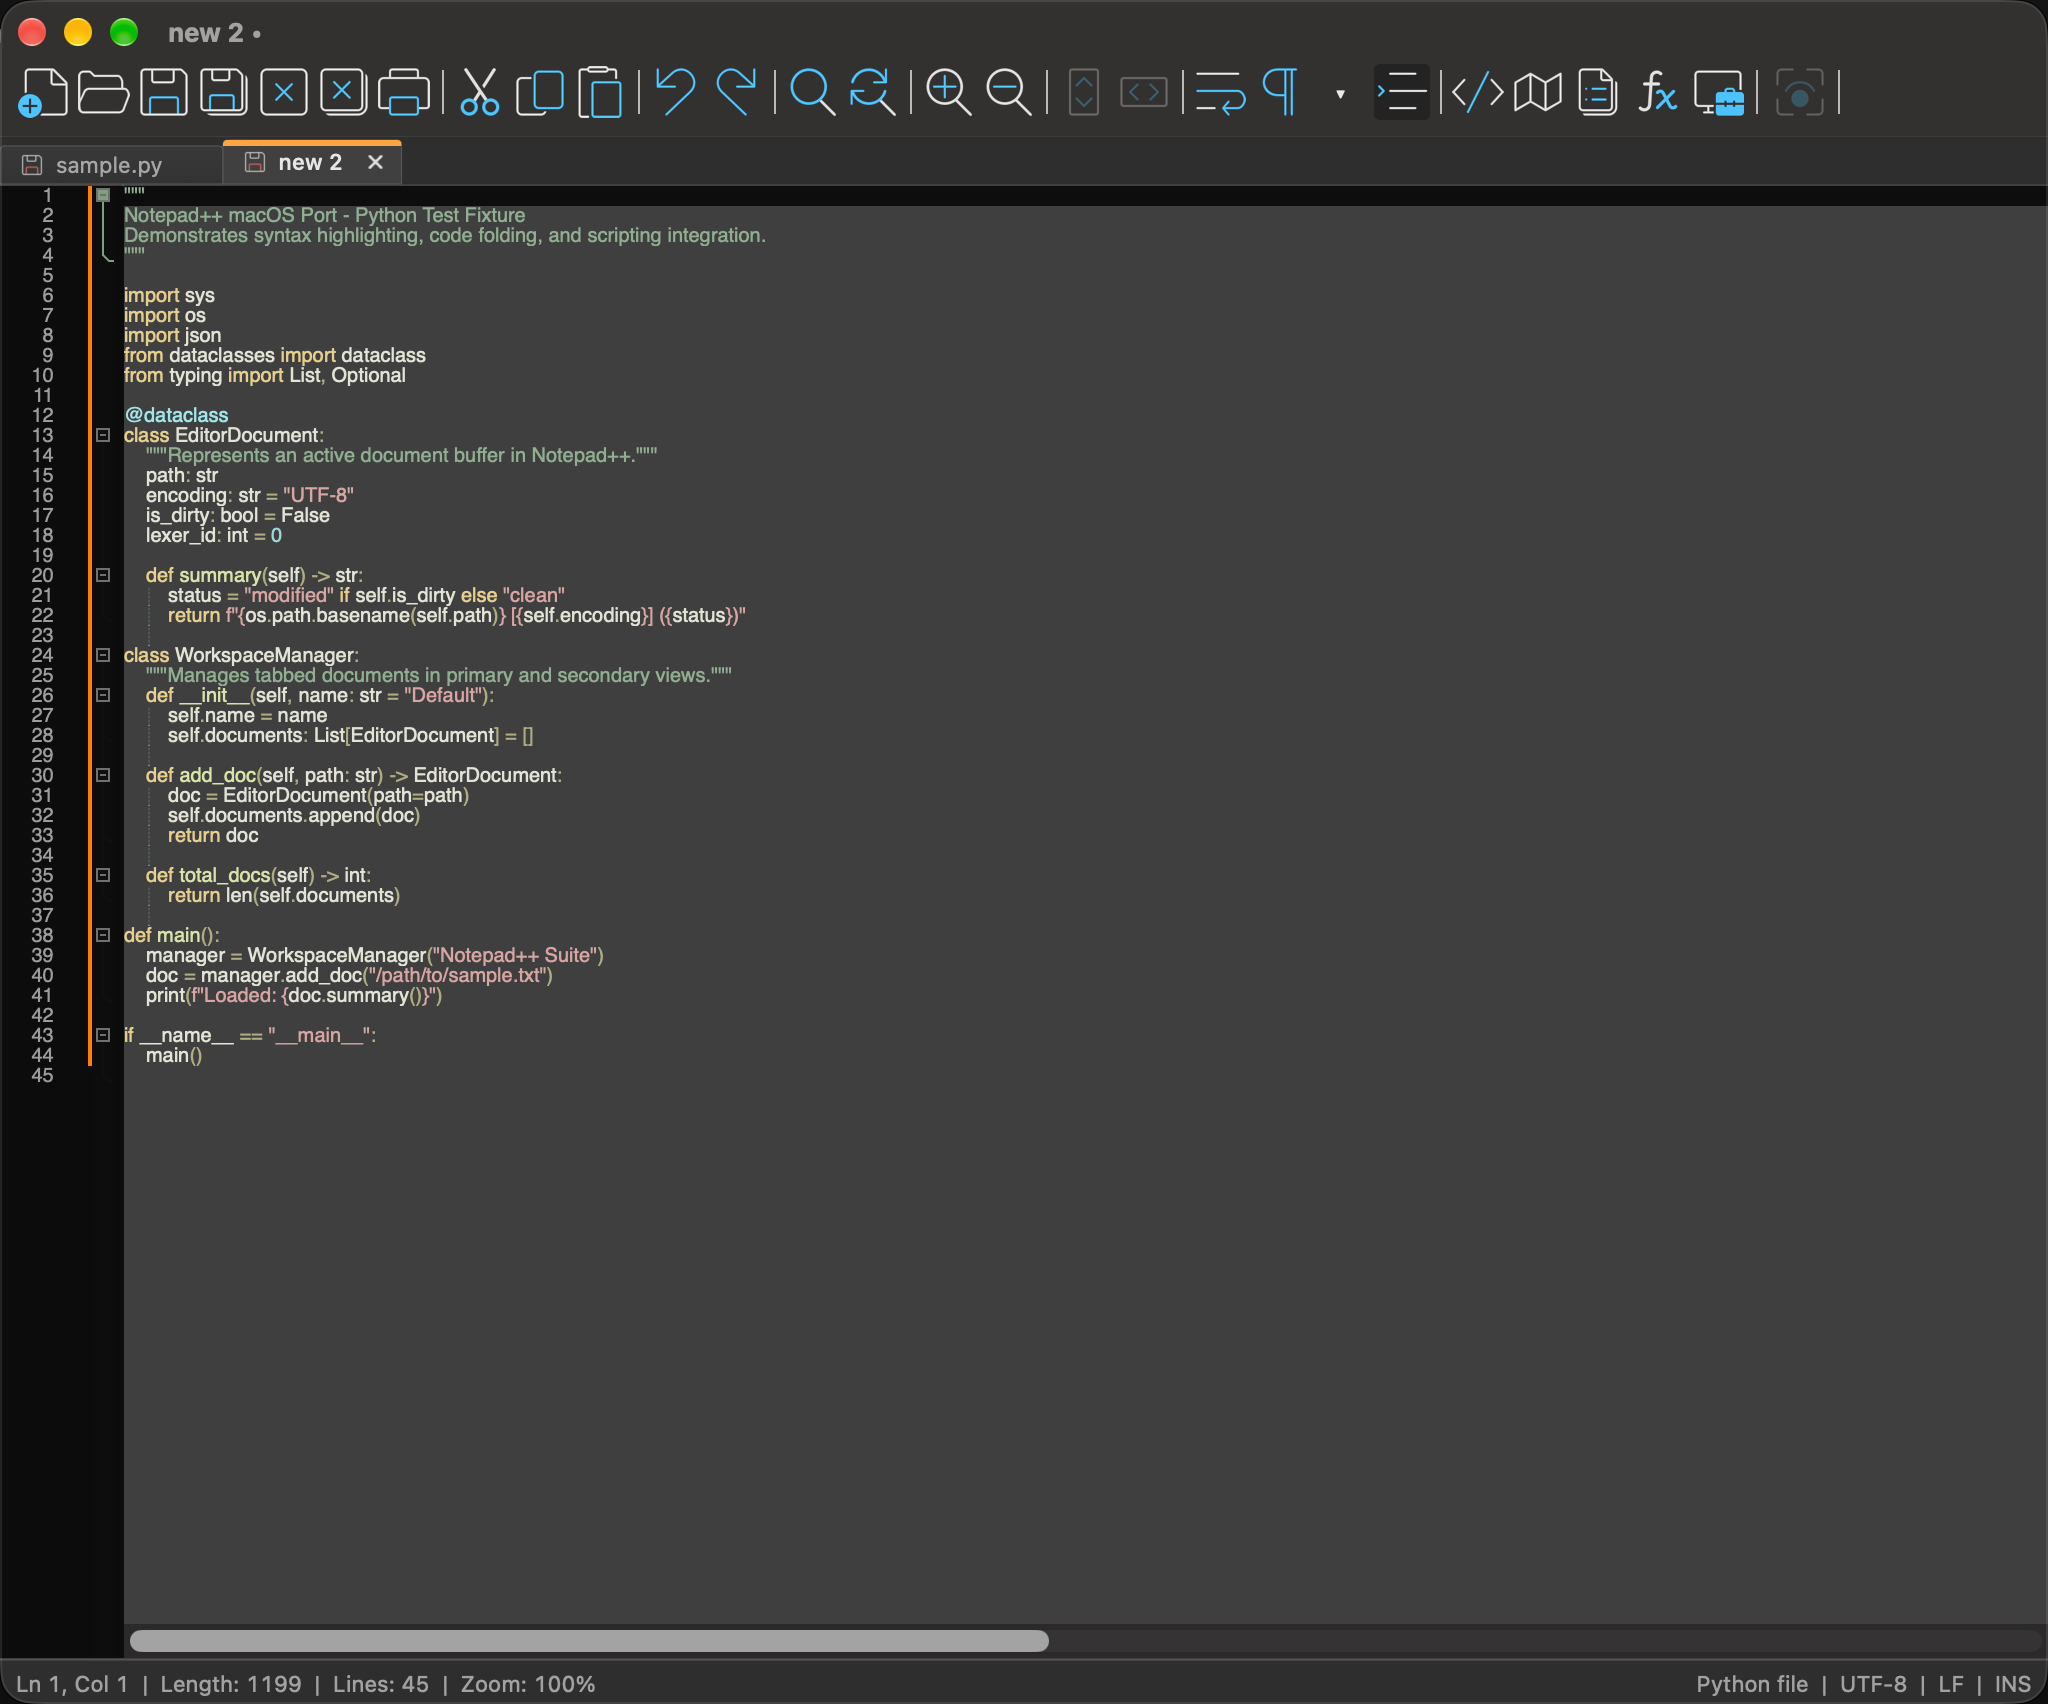
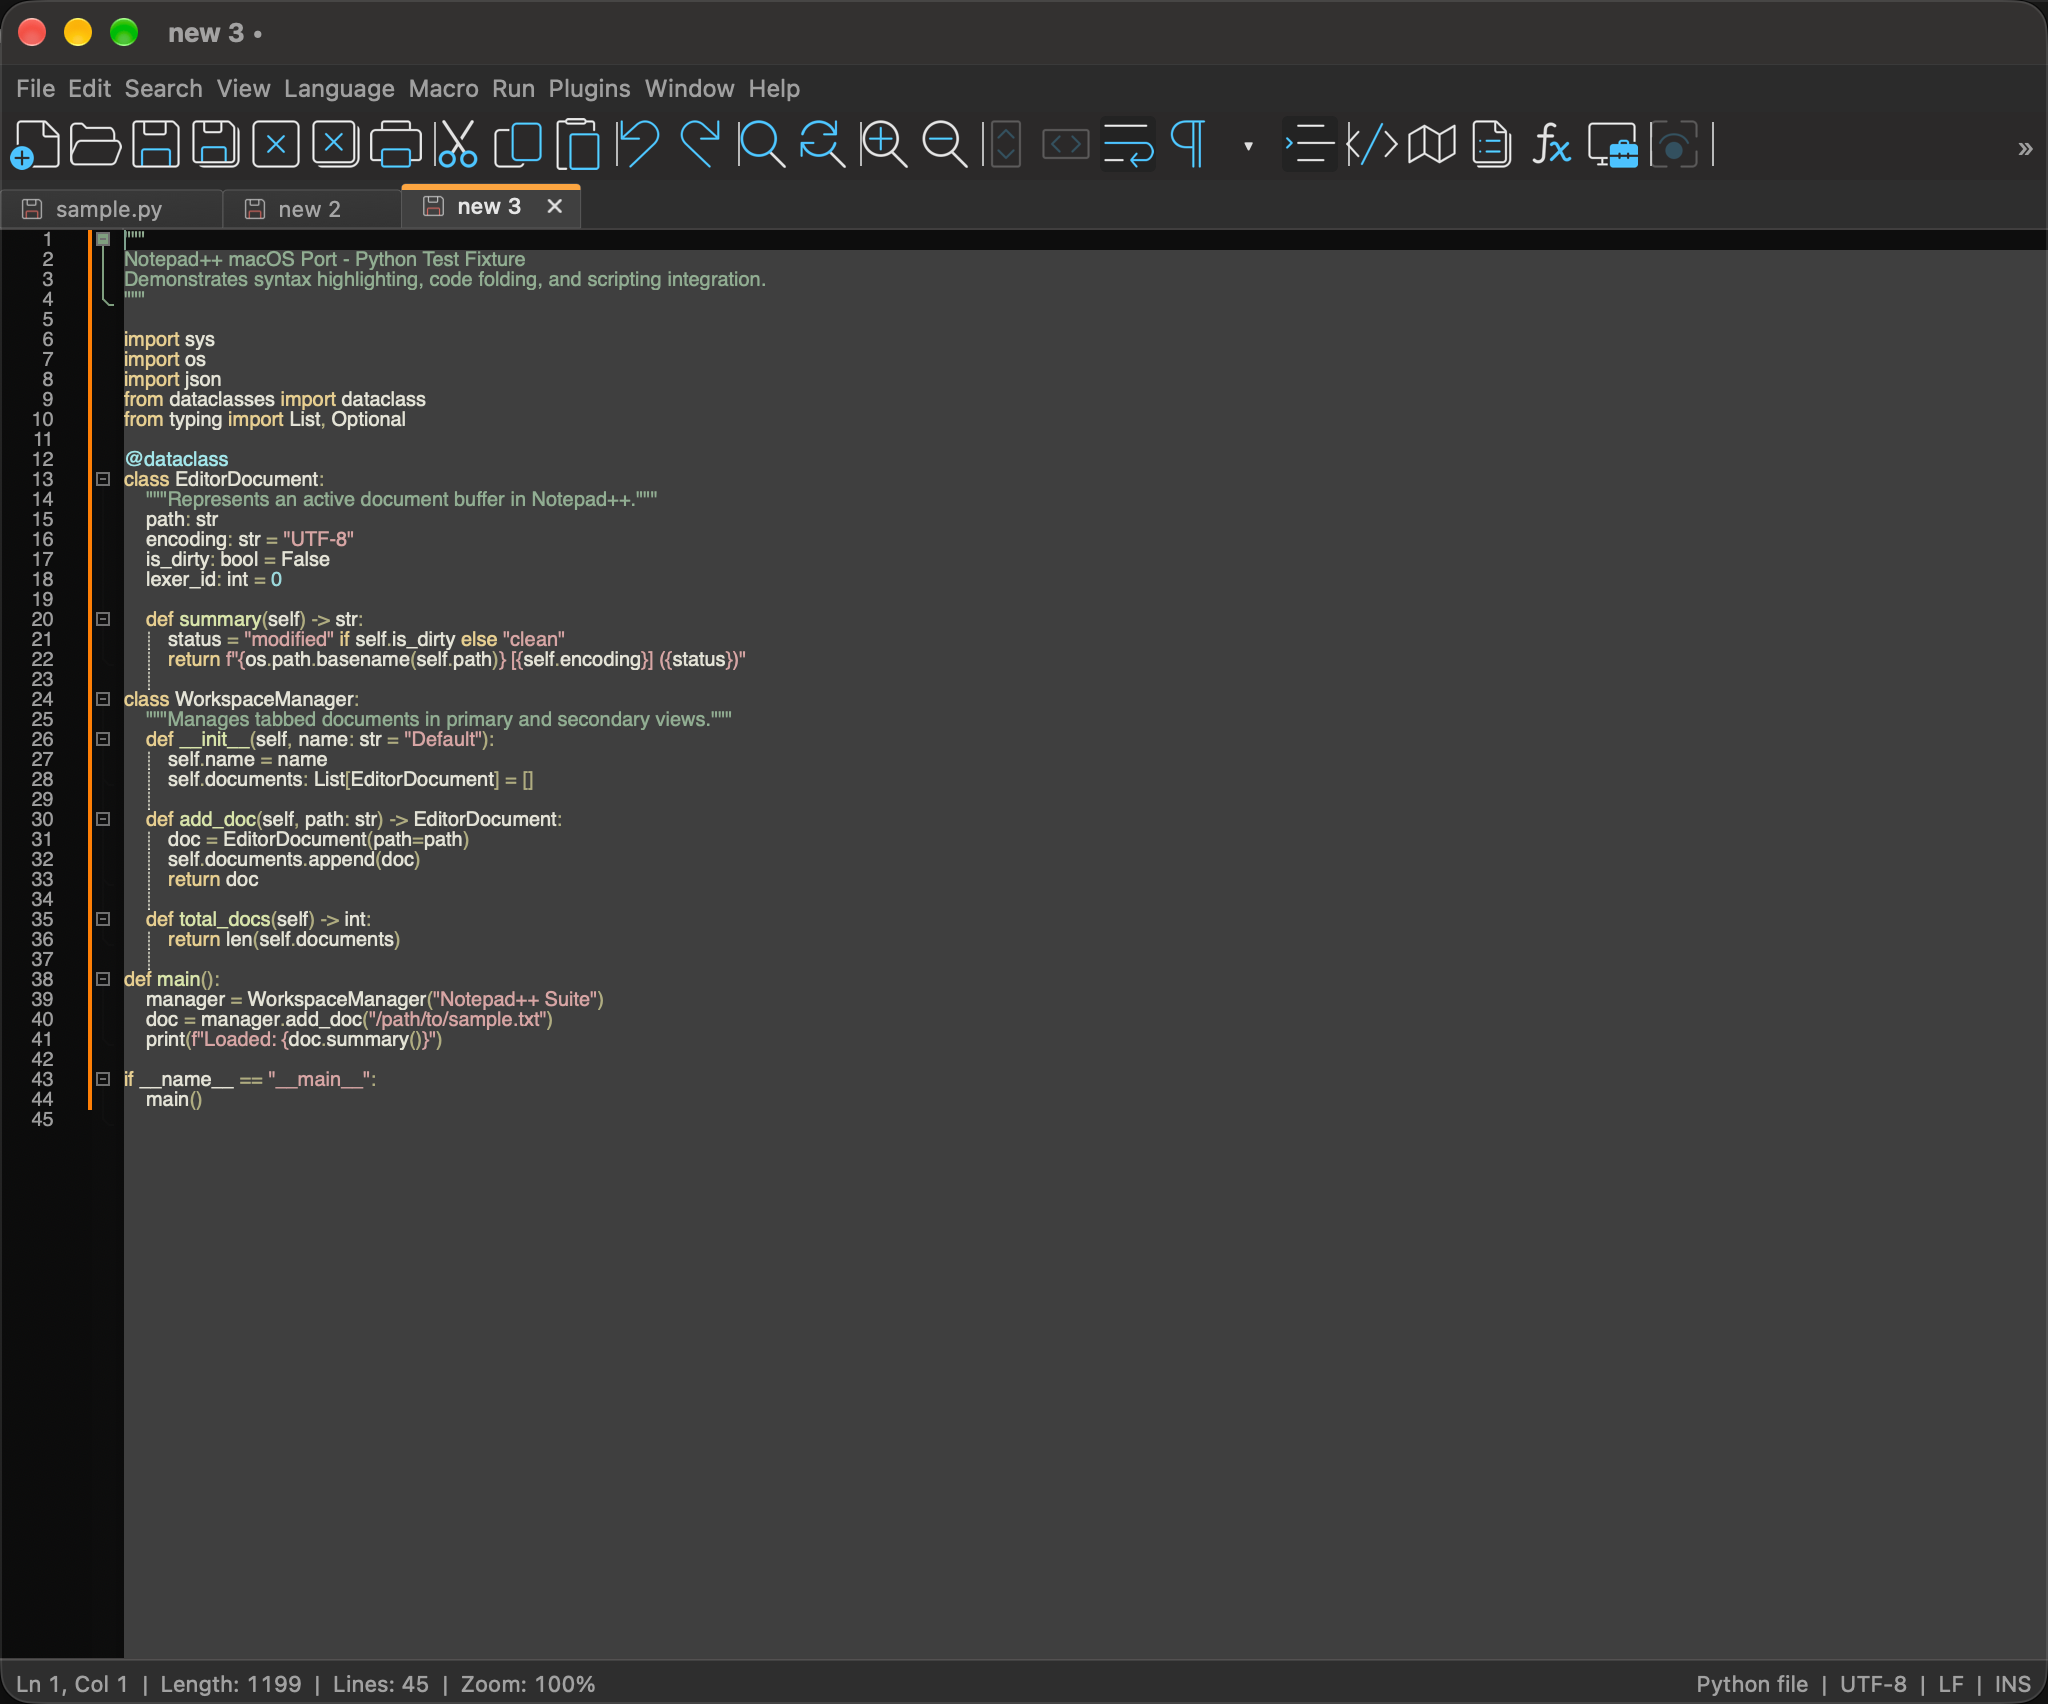
README: screenshots and layout for the new window
Replace the screenshots with the current layout, and describe the menu row,
the toolbar row and the » overflow.

Changed region(s): [[0.0, 0.0311, 1.0, 0.6532], [0.0625, 0.9331, 0.5, 0.9953], [0.0, 0.1866, 0.0312, 0.6532]]

diff --git a/README.md b/README.md
@@ -12,6 +12,16 @@ native menus, toolbars, file dialogs, and light and dark appearance.
   <br><em>Light mode (left) and dark mode (right)</em>
 </p>
 
+## Window layout
+
+From top to bottom, the main window has:
+
+- **Menu row:** File, Edit, Search and the other document menus. The macOS menu bar keeps only the NP++ app menu.
+- **Toolbar row:** the editing and view buttons. When the window is narrow, buttons that don't fit move behind the » button, which opens a vertical list of their icons.
+- **Tabs and editor:** open documents, with the editor below them and the status bar at the bottom.
+
+Keyboard shortcuts work the same as before.
+
 ## Requirements
 
 - macOS 11 (Big Sur) or later
